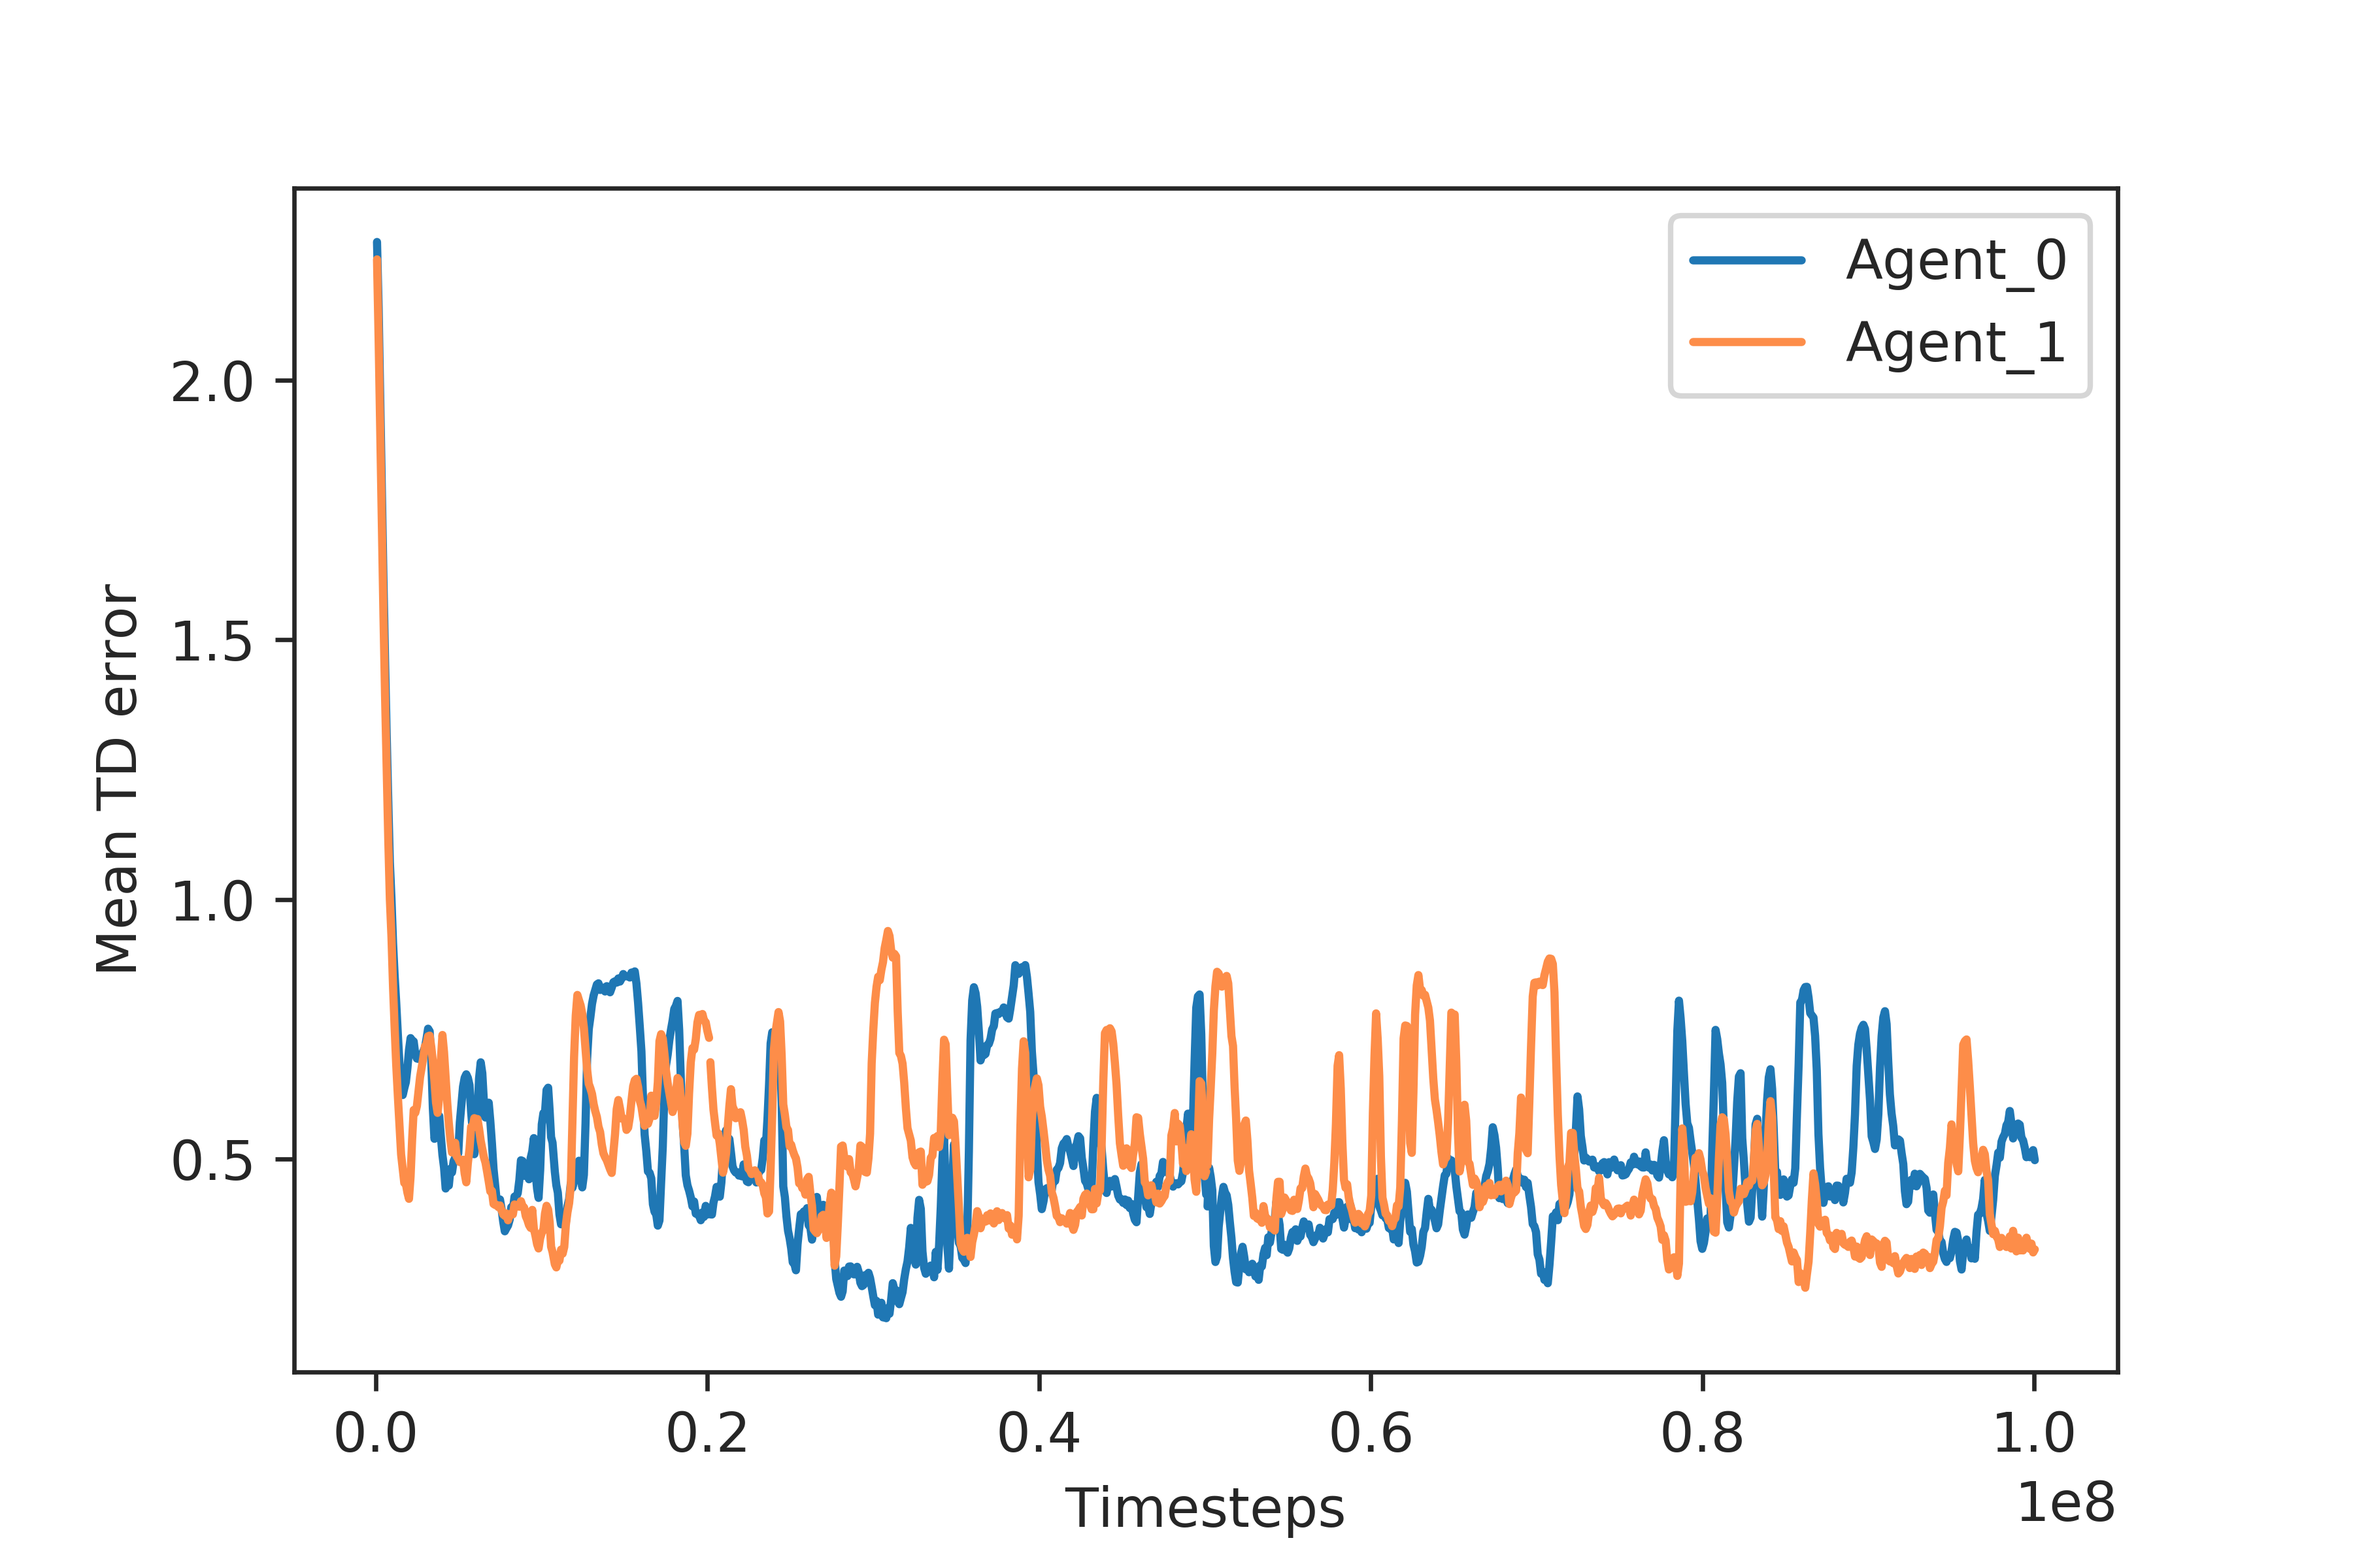
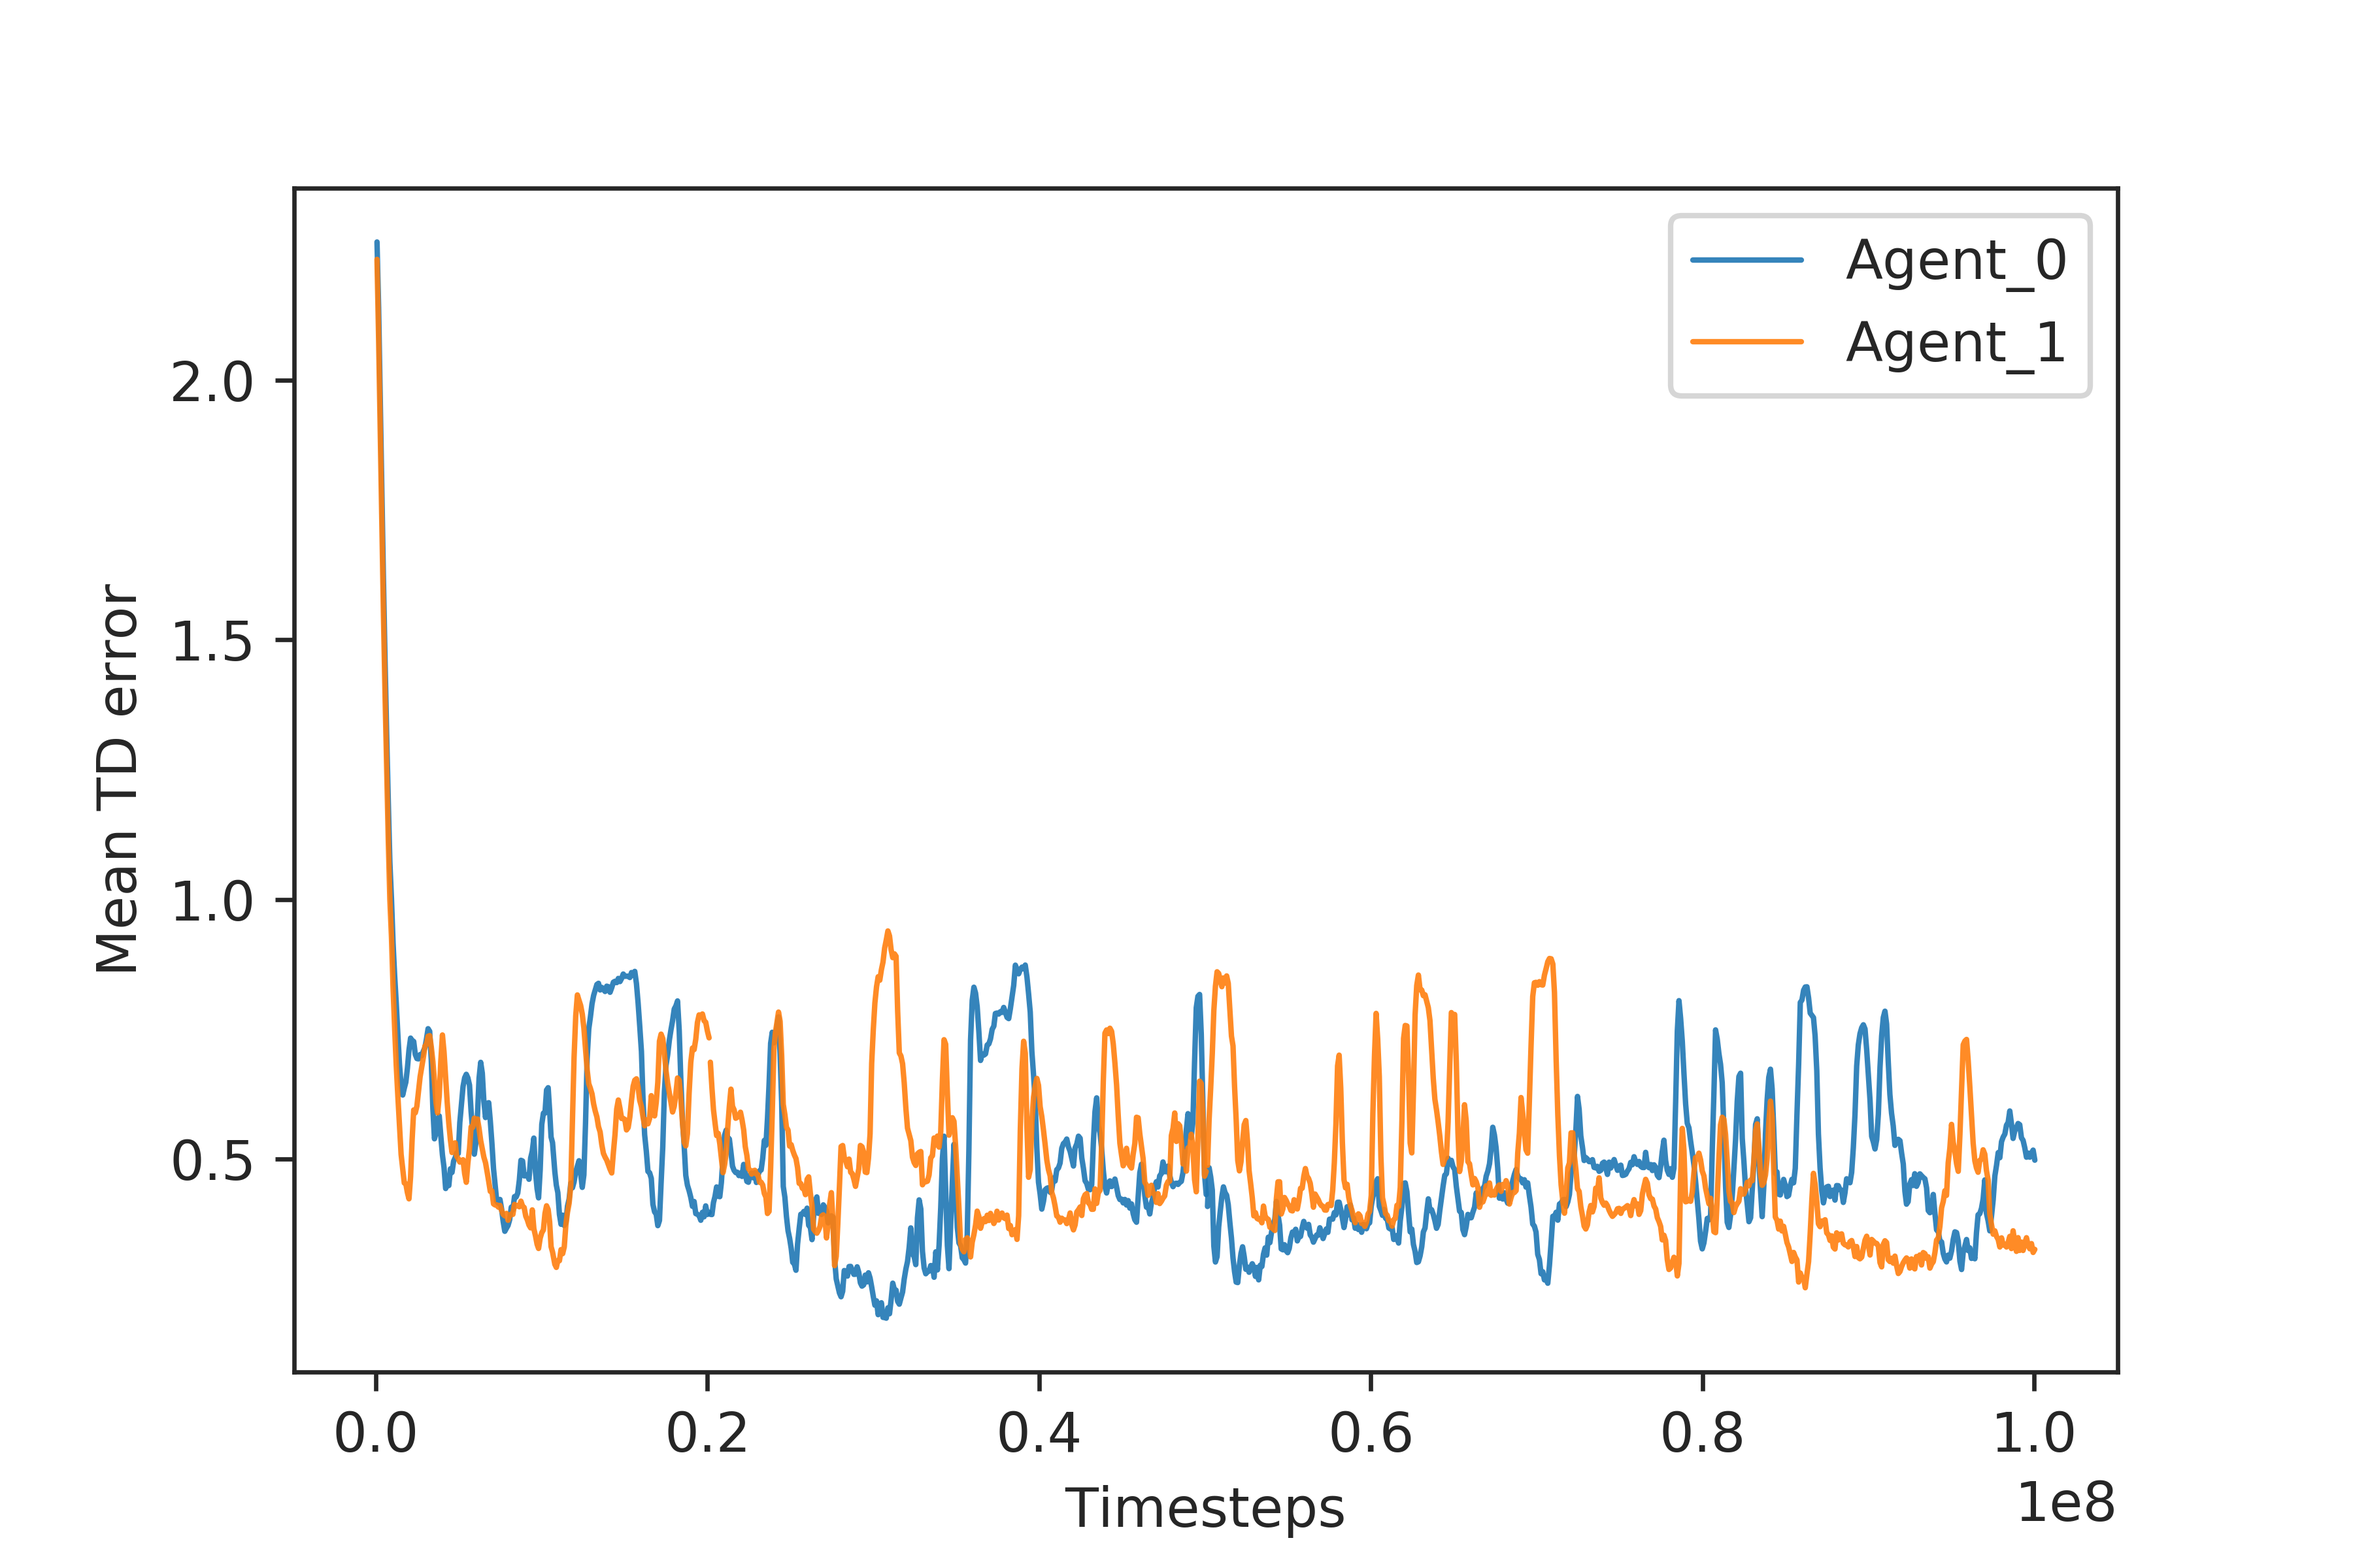
updated figures

Changed region(s): [[0.1556, 0.1562, 0.8711, 0.8125]]

diff --git a/train_results/Azure_ApexDQN_Cont/training_metrics.py b/train_results/Azure_ApexDQN_Cont/training_metrics.py
@@ -47,17 +47,17 @@ def deltas1(data):
     return x
 
 # plot mean-min-max
-plt.plot(data1['ts_total'], deltas(data1['rew_mean']), alpha = 0.95, lw=0.9, c='C0', label = 'mean')
-plt.plot(data2['ts_total'], deltas(data2['rew_mean']), alpha = 0.95, lw=0.9, c='C0')
-plt.plot(data3['ts_total'], deltas(data3['rew_mean']), alpha = 0.95, lw=0.9, c='C0')
+plt.plot(data1['ts_total'], deltas(data1['rew_mean']), alpha = 0.90, lw=1, c='C0', label = 'mean')
+plt.plot(data2['ts_total'], deltas(data2['rew_mean']), alpha = 0.90, lw=1, c='C0')
+plt.plot(data3['ts_total'], deltas(data3['rew_mean']), alpha = 0.90, lw=1, c='C0')
 
 plt.plot(data1['ts_total'], deltas(data1['rew_max']), alpha = 0.75, lw=0.75, linestyle=':', color='C2', label = 'max')
 plt.plot(data2['ts_total'], deltas(data2['rew_max']), alpha = 0.75, lw=0.75, linestyle=':', color='C2')
 plt.plot(data3['ts_total'], deltas(data3['rew_max']), alpha = 0.75, lw=0.75, linestyle=':', color='C2')      
 
-plt.plot(data1['ts_total'], deltas(data1['rew_min']), alpha = 0.75, lw=0.75, linestyle=':', color='#fd8d49', label = 'min')
-plt.plot(data2['ts_total'], deltas(data2['rew_min']), alpha = 0.75, lw=0.75, linestyle=':', color='#fd8d49')
-plt.plot(data3['ts_total'], deltas(data3['rew_min']), alpha = 0.75, lw=0.75, linestyle=':', color='#fd8d49')  
+plt.plot(data1['ts_total'], deltas(data1['rew_min']), alpha = 0.75, lw=0.75, linestyle=':', color='C1', label = 'min')
+plt.plot(data2['ts_total'], deltas(data2['rew_min']), alpha = 0.75, lw=0.75, linestyle=':', color='C1')
+plt.plot(data3['ts_total'], deltas(data3['rew_min']), alpha = 0.75, lw=0.75, linestyle=':', color='C1')  
 
 plt.legend(loc = 'lower right')       
 plt.xlabel('Timesteps')
@@ -68,7 +68,7 @@ plt.show()
 
 
 # Aggregate reward
-plt.plot(data1['ts_total'], deltas(data1['rew_max']), label='res0',c='royalblue')
+plt.plot(data1['ts_total'], deltas(data1['rew_max']), label='res0')
 plt.plot(data2['ts_total'], deltas(data2['rew_max']), label='res1')
 plt.plot(data3['ts_total'], deltas(data3['rew_max']), label='res2')
 plt.xlabel('Timesteps')
@@ -93,12 +93,12 @@ plt.savefig('/home/lorenzo/Desktop/training_metrics_3.png', dpi=600)
 plt.show()
 
 # Per agent reward
-plt.plot(data1['ts_total'], deltas1(data1['rew_agt0']), label='Agent_0', c="C0")
-plt.plot(data2['ts_total'], deltas1(data2['rew_agt0']), c="C0")
-plt.plot(data3['ts_total'], deltas1(data3['rew_agt0']), c="C0")
-plt.plot(data1['ts_total'], deltas1(data1['rew_agt1']), label='Agent_1', c="#fd8d49")
-plt.plot(data2['ts_total'], deltas1(data2['rew_agt1']), c="#fd8d49")
-plt.plot(data3['ts_total'], deltas1(data3['rew_agt1']), c="#fd8d49")
+plt.plot(data1['ts_total'], deltas1(data1['rew_agt0']), label='Agent_0', c="C0", alpha=0.9, lw=1)
+plt.plot(data2['ts_total'], deltas1(data2['rew_agt0']), c="C0", alpha=0.9, lw=1)
+plt.plot(data3['ts_total'], deltas1(data3['rew_agt0']), c="C0", alpha=0.9, lw=1)
+plt.plot(data1['ts_total'], deltas1(data1['rew_agt1']), label='Agent_1', c='C1', alpha=0.9, lw=1)
+plt.plot(data2['ts_total'], deltas1(data2['rew_agt1']), c='C1', alpha=0.9, lw=1)
+plt.plot(data3['ts_total'], deltas1(data3['rew_agt1']), c='C1', alpha=0.9, lw=1)
 plt.xlabel('Timesteps')
 plt.ylabel('Average profit gains')
 plt.legend()
@@ -106,12 +106,12 @@ plt.savefig('/home/lorenzo/Desktop/training_metrics_4.png', dpi=600)
 plt.show()
 
 # Per agent td error
-plt.plot(data1['ts_total'], data1['tderr_agt0'], label='Agent_0', c="C0")
-plt.plot(data2['ts_total'], data2['tderr_agt0'], c="C0")
-plt.plot(data3['ts_total'], data3['tderr_agt0'], c="C0")
-plt.plot(data1['ts_total'], data1['tderr_agt1'], label='Agent_1', c="#fd8d49")
-plt.plot(data2['ts_total'], data2['tderr_agt1'], c="#fd8d49")
-plt.plot(data3['ts_total'], data3['tderr_agt1'], c="#fd8d49")
+plt.plot(data1['ts_total'], data1['tderr_agt0'], label='Agent_0', c="C0", alpha=0.9, lw=1)
+plt.plot(data2['ts_total'], data2['tderr_agt0'], c="C0", alpha=0.9, lw=1)
+plt.plot(data3['ts_total'], data3['tderr_agt0'], c="C0", alpha=0.9, lw=1)
+plt.plot(data1['ts_total'], data1['tderr_agt1'], label='Agent_1', c='C1', alpha=0.9, lw=1)
+plt.plot(data2['ts_total'], data2['tderr_agt1'], c='C1', alpha=0.9, lw=1)
+plt.plot(data3['ts_total'], data3['tderr_agt1'], c='C1', alpha=0.9, lw=1)
 plt.xlabel('Timesteps')
 plt.ylabel('Mean TD error')
 plt.legend()

diff --git a/train_results/Azure_ApexDQN_Disc/training_metrics.py b/train_results/Azure_ApexDQN_Disc/training_metrics.py
@@ -47,22 +47,22 @@ def deltas1(data):
     return x
 
 # plot mean-min-max
-plt.plot(data1['ts_total'], deltas(data1['rew_mean']), alpha = 1, lw=0.95, c='C0', label = 'mean')
-plt.plot(data2['ts_total'], deltas(data2['rew_mean']), alpha = 1, lw=0.95, c='C0')
-plt.plot(data3['ts_total'], deltas(data3['rew_mean']), alpha = 1, lw=0.95, c='C0')
+plt.plot(data1['ts_total'], deltas(data1['rew_mean']), alpha = 0.9, lw=1, c='C0', label = 'mean')
+plt.plot(data2['ts_total'], deltas(data2['rew_mean']), alpha = 0.9, lw=1, c='C0')
+plt.plot(data3['ts_total'], deltas(data3['rew_mean']), alpha = 0.9, lw=1, c='C0')
 
 plt.plot(data1['ts_total'], deltas(data1['rew_max']), alpha = 0.75, lw=0.75, linestyle=':', color='C2', label = 'max')
 plt.plot(data2['ts_total'], deltas(data2['rew_max']), alpha = 0.75, lw=0.75, linestyle=':', color='C2')
 plt.plot(data3['ts_total'], deltas(data3['rew_max']), alpha = 0.75, lw=0.75, linestyle=':', color='C2')      
 
-plt.plot(data1['ts_total'], deltas(data1['rew_min']), alpha = 0.75, lw=0.75, linestyle=':', color='#fd8d49', label = 'min')
-plt.plot(data2['ts_total'], deltas(data2['rew_min']), alpha = 0.75, lw=0.75, linestyle=':', color='#fd8d49')
-plt.plot(data3['ts_total'], deltas(data3['rew_min']), alpha = 0.75, lw=0.75, linestyle=':', color='#fd8d49')  
+plt.plot(data1['ts_total'], deltas(data1['rew_min']), alpha = 0.75, lw=0.75, linestyle=':', color='C1', label = 'min')
+plt.plot(data2['ts_total'], deltas(data2['rew_min']), alpha = 0.75, lw=0.75, linestyle=':', color='C1')
+plt.plot(data3['ts_total'], deltas(data3['rew_min']), alpha = 0.75, lw=0.75, linestyle=':', color='C1')  
 
 plt.legend(loc = 'lower right')       
 plt.xlabel('Timesteps')
 plt.ylabel('Profit gain (delta)')
-plt.savefig('/home/lorenzo/Desktop/training_metrics_0.png', dpi=600)
+plt.savefig('/home/lorenzo/Desktop/training_metrics_0d.png', dpi=600)
 plt.show()
 
 # Aggregate reward
@@ -91,12 +91,12 @@ plt.savefig('/home/lorenzo/Desktop/training_metrics_3d.png', dpi=600)
 plt.show()
 
 # Per agent reward
-plt.plot(data1['ts_total'], deltas1(data1['rew_agt0']), label='Agent_0', c='C0')
-plt.plot(data2['ts_total'], deltas1(data2['rew_agt0']), c='C0')
-plt.plot(data3['ts_total'], deltas1(data3['rew_agt0']), c='C0')
-plt.plot(data1['ts_total'], deltas1(data1['rew_agt1']), label='Agent_1', c="#fd8d49")
-plt.plot(data2['ts_total'], deltas1(data2['rew_agt1']), c="#fd8d49")
-plt.plot(data3['ts_total'], deltas1(data3['rew_agt1']), c="#fd8d49")
+plt.plot(data1['ts_total'], deltas1(data1['rew_agt0']), label='Agent_0', c="C0", alpha=0.9, lw=1)
+plt.plot(data2['ts_total'], deltas1(data2['rew_agt0']), c="C0", alpha=0.9, lw=1)
+plt.plot(data3['ts_total'], deltas1(data3['rew_agt0']), c="C0", alpha=0.9, lw=1)
+plt.plot(data1['ts_total'], deltas1(data1['rew_agt1']), label='Agent_1', c='C1', alpha=0.9, lw=1)
+plt.plot(data2['ts_total'], deltas1(data2['rew_agt1']), c='C1', alpha=0.9, lw=1)
+plt.plot(data3['ts_total'], deltas1(data3['rew_agt1']), c='C1', alpha=0.9, lw=1)
 plt.xlabel('Timesteps')
 plt.ylabel('Average profit gains')
 plt.legend()
@@ -104,12 +104,12 @@ plt.savefig('/home/lorenzo/Desktop/training_metrics_4d.png', dpi=600)
 plt.show()
 
 # Per agent td error
-plt.plot(data1['ts_total'], data1['tderr_agt0'], label='Agent_0', c='C0')
-plt.plot(data2['ts_total'], data2['tderr_agt0'], c='C0')
-plt.plot(data3['ts_total'], data3['tderr_agt0'], c='C0')
-plt.plot(data1['ts_total'], data1['tderr_agt1'], label='Agent_1', c="#fd8d49")
-plt.plot(data2['ts_total'], data2['tderr_agt1'], c="#fd8d49")
-plt.plot(data3['ts_total'], data3['tderr_agt1'], c="#fd8d49")
+plt.plot(data1['ts_total'], data1['tderr_agt0'], label='Agent_0', c="C0", alpha=0.9, lw=1)
+plt.plot(data2['ts_total'], data2['tderr_agt0'], c="C0", alpha=0.9, lw=1)
+plt.plot(data3['ts_total'], data3['tderr_agt0'], c="C0", alpha=0.9, lw=1)
+plt.plot(data1['ts_total'], data1['tderr_agt1'], label='Agent_1', c='C1', alpha=0.9, lw=1)
+plt.plot(data2['ts_total'], data2['tderr_agt1'], c='C1', alpha=0.9, lw=1)
+plt.plot(data3['ts_total'], data3['tderr_agt1'], c='C1', alpha=0.9, lw=1)
 plt.xlabel('Timesteps')
 plt.ylabel('Mean TD error')
 plt.legend()
